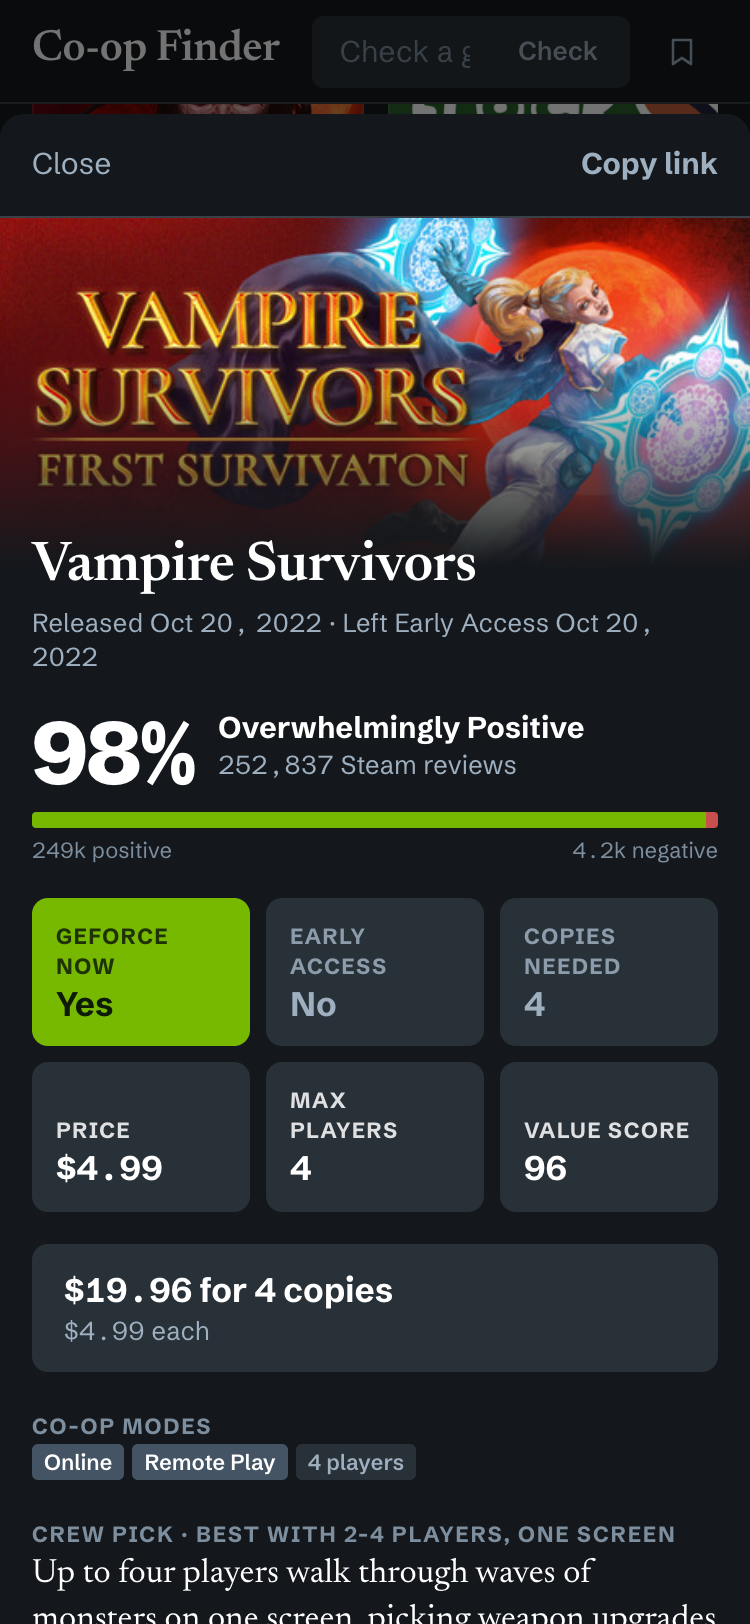
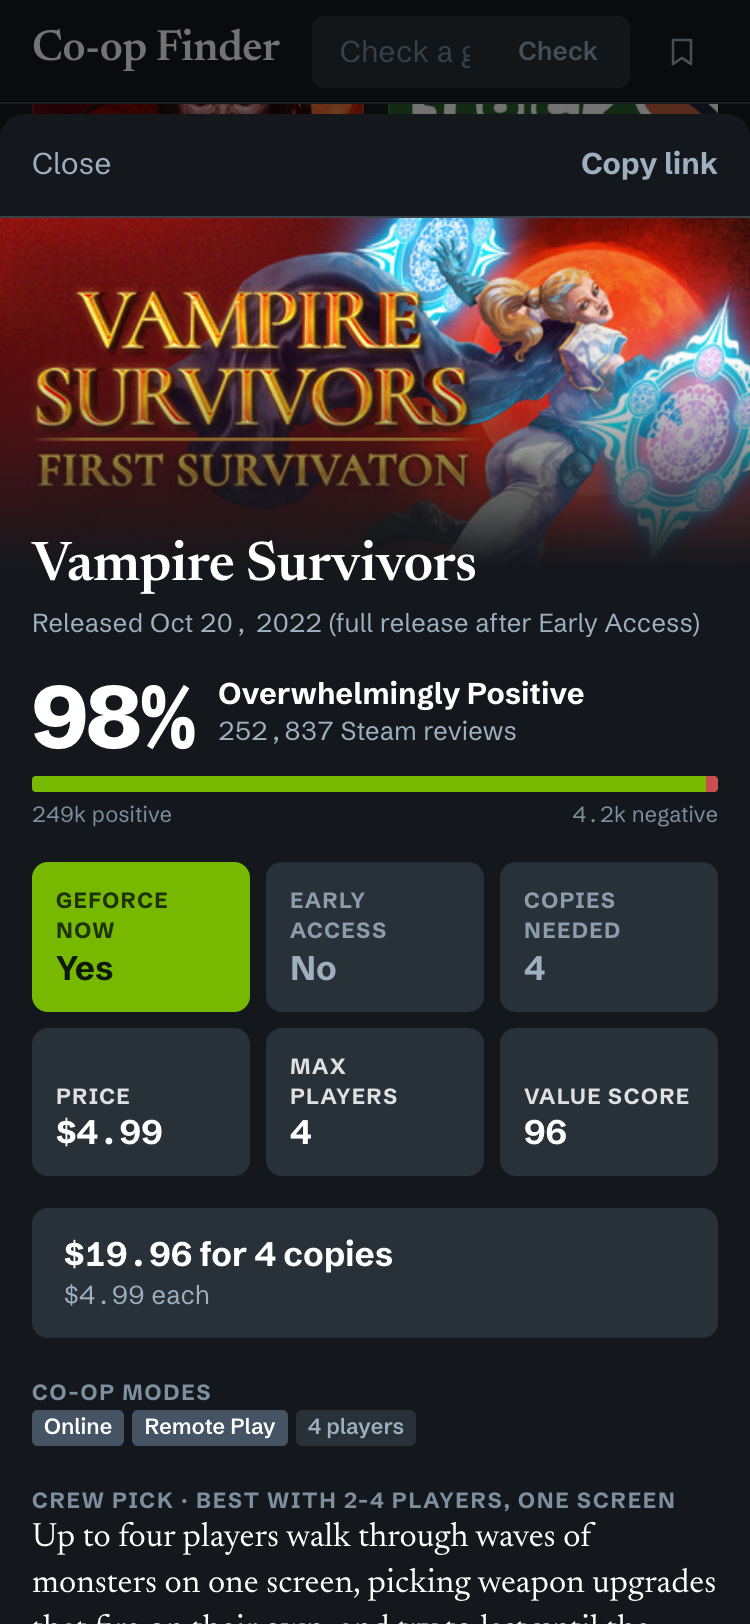
Plain dashes in blurbs, verdict tile sizing, scroll reset on view change, design review notes

Changed region(s): [[0.0307, 0.3695, 0.9813, 1.0]]

diff --git a/src/styles/app.css b/src/styles/app.css
@@ -1288,6 +1288,11 @@ img {
   line-height: 1.1;
 }
 
+.tile .v.small {
+  font-size: var(--t2);
+  line-height: 1.25;
+}
+
 .tile .v small {
   font-size: var(--t1);
   font-weight: 600;
@@ -1436,9 +1441,27 @@ img {
   font-size: var(--t2);
 }
 
+.check-row > svg {
+  width: 16px;
+  height: 16px;
+  flex: none;
+  fill: none;
+  stroke: currentColor;
+  stroke-width: 2;
+  stroke-linecap: round;
+  stroke-linejoin: round;
+  color: var(--text-3);
+}
+
 .check-row.more {
   color: var(--info);
   font-weight: 600;
+}
+
+.check-row.more > svg {
+  color: var(--info);
+  width: 20px;
+  height: 20px;
 }
 
 .verdict {

diff --git a/src/components/Detail.tsx b/src/components/Detail.tsx
@@ -29,7 +29,8 @@ export function Detail({ game: g, party, tagNames, saved, onToggleSave }: Props)
         <h2 class="detail-title">{g.name}</h2>
         <div class="detail-sub num">
           {g.released ? `Released ${longDate(g.released)}` : ''}
-          {g.leftEaAt && !g.ea ? ` · Left Early Access ${longDate(g.leftEaAt)}` : ''}
+          {g.leftEaAt && !g.ea ? (g.leftEaAt === g.released ? ' (full release after Early Access)' : ` · Left Early Access ${longDate(g.leftEaAt)}`) : ''}
+          {g.ea ? ' · Early Access' : ''}
         </div>
 
         <div class="score num">

diff --git a/src/components/CheckGame.tsx b/src/components/CheckGame.tsx
@@ -159,7 +159,7 @@ export function CheckGame({ query, games, byId, onOpenGame }: Props) {
       <div class="tiles">
         <div class={`tile ${r.anyCoop ? 'yes' : 'no'}`}>
           <span class="k">Co-op</span>
-          <span class="v">{r.anyCoop ? modes.join(', ') : 'None'}</span>
+          <span class={`v ${modes.length > 1 ? 'small' : ''}`}>{r.anyCoop ? modes.join(', ') : 'None'}</span>
         </div>
         <div class={`tile ${r.ea ? 'warn' : 'no'}`}>
           <span class="k">Early Access</span>

diff --git a/src/app.tsx b/src/app.tsx
@@ -59,7 +59,10 @@ export function App() {
 
   // ---- url sync
   const setUrl = useCallback((next: UrlState, push = false) => {
-    setUrlState(next);
+    setUrlState((prev) => {
+      if (prev.view !== next.view) window.scrollTo(0, 0);
+      return next;
+    });
     const href = urlFor(next);
     if (href !== location.pathname + location.search) {
       if (push) history.pushState(null, '', href);

diff --git a/pipeline/lib/steam.ts b/pipeline/lib/steam.ts
@@ -113,6 +113,8 @@ export function decodeEntities(s: string): string {
     .replace(/&gt;/g, '>')
     .replace(/&nbsp;/g, ' ')
     .replace(/<[^>]+>/g, '')
+    .replace(/\s*\u2014\s*/g, ' - ')
+    .replace(/\u2013/g, '-')
     .replace(/\s+/g, ' ')
     .trim();
 }

diff --git a/design/review.md b/design/review.md
@@ -33,7 +33,7 @@ Differences:
 
 | Ours | Reference |
 |---|---|
-| (first row on the home page once `data/picks.json` has lines; see home-top.png) | ![Letterboxd year in review](refs/crew-picks-editorial-card__f41976a6.jpg) |
+| ![home top with Crew Picks](shots/home-top.png) | ![Letterboxd year in review](refs/crew-picks-editorial-card__f41976a6.jpg) |
 
 Same: wide art on top, a small uppercase label, a large serif title, a serif body line, a few plain facts underneath.
 
@@ -111,4 +111,26 @@ Differences: the badge is light grey-blue (`--badge`) rather than PlayStation's 
 
 ## Banned-list check
 
-Run against the built CSS (`dist/index.html`, which inlines the stylesheet) and the UI copy (`src/`, `index.html`): no Inter, Geist, Roboto, Space Grotesk, Satoshi, Manrope, Fraunces or Bricolage; no purple, indigo or violet hues (every colour is a token in `src/styles/tokens.css`, listed in DESIGN.md); no gradient text, glass, glow or blob backgrounds (the only gradients are the two solid-to-transparent fades under hero art); no em dashes in copy. The grep commands and their output are recorded at the bottom of this file after each run.
+Run against the built CSS (`dist/index.html`, which inlines the stylesheet) and the UI copy (`src/`, `index.html`): no Inter, Geist, Roboto, Space Grotesk, Satoshi, Manrope, Fraunces or Bricolage; no purple, indigo or violet hues (every colour is a token in `src/styles/tokens.css`, listed in DESIGN.md); no gradient text, glass, glow or blob backgrounds (the only gradients are the two solid-to-transparent fades under hero art); no em dashes in copy. The script is `design/banned-check.sh`; its output from the final build on 13 November 2026:
+
+```
+== banned fonts in built output and source ==
+none
+== purple / indigo / violet (names and hue ranges) ==
+no named purples
+no hex colours between hue 250 and 320
+== em dashes in copy ==
+none
+== gradient text / glass / glow ==
+none
+```
+
+Steam's own descriptions can contain em dashes; the pipeline and the checker function replace them with plain dashes before they reach a card.
+
+## Lighthouse (mobile, production build, 13 November 2026)
+
+| Performance | Accessibility | Best practices | SEO | FCP | LCP | TBT | CLS |
+|---|---|---|---|---|---|---|---|
+| 92 | 100 | 100 | 100 | 1.5 s | 3.3 s | 80 ms | 0.01 |
+
+The LCP element is the first Crew Picks header image, which the build preloads from index.html. The remaining Lighthouse notes are Steam's JPEG posters (no WebP or smaller portrait size exists on Steam's CDN) and the grid's DOM size at 60 cards.

diff --git a/DECISIONS.md b/DECISIONS.md
@@ -26,7 +26,7 @@ Calls made while building, in the order they came up. Each one was settled by te
 
 16. **PRICE_WEIGHT is 0.5, not 0.75.** On the first full run (202 games in the default view) a weight of 0.75 left no game over $10 in the top 30 and put PlateUp!, Don't Starve Together and Ultimate Chicken Horse at positions 82, 61 and 54. The brief's own calibration sentence ("a $5 game at about 89% ranks near a $20 game at about 97%") solves to a weight of (97 - 89) / (20 - 5) = 0.53; at 0.5 those two games tie within half a point, three games over $10 reach the top 30, and the top 10 is unchanged in spirit (Vampire Survivors, Brotato, Portal 2, PEAK, Left 4 Dead 2, Terraria). Full position tables for 0.4, 0.5, 0.6, 0.75 and 1.0 are in the Tuning section at the bottom.
 17. **Tags stored per game: the top 8 by weight, minus mode and state tags** (Co-op, Online Co-Op, Local Co-Op, Co-op Campaign, Split Screen, 4 Player Local, Local Multiplayer, Multiplayer, Singleplayer, Early Access, Free to Play, Massively Multiplayer). Those facts live in `coop`, `ea`, `price.free` and `mmo` already; keeping them as tags would make "Co-op" the most common filter tag, which is useless here. The UI offers the 40 most common remaining tags.
-18. **Blurbs are Steam's `short_description`, entity-decoded, cut at 160 characters on a word boundary.**
+18. **Blurbs are Steam's `short_description`, entity-decoded, cut at 160 characters on a word boundary.** Em and en dashes inside them are replaced with plain dashes so Steam's own copy follows the same rule as the site copy.
 19. **Review cache TTL is 20 hours, not "every run".** The brief asks for review totals to be refetched on every full run. They are, because full runs are a week apart. The 20-hour TTL exists so that a run that crashes and is restarted the same day resumes instead of re-sending 2,000 requests; the cache is written every 50 apps for the same reason.
 
 ## Frontend
